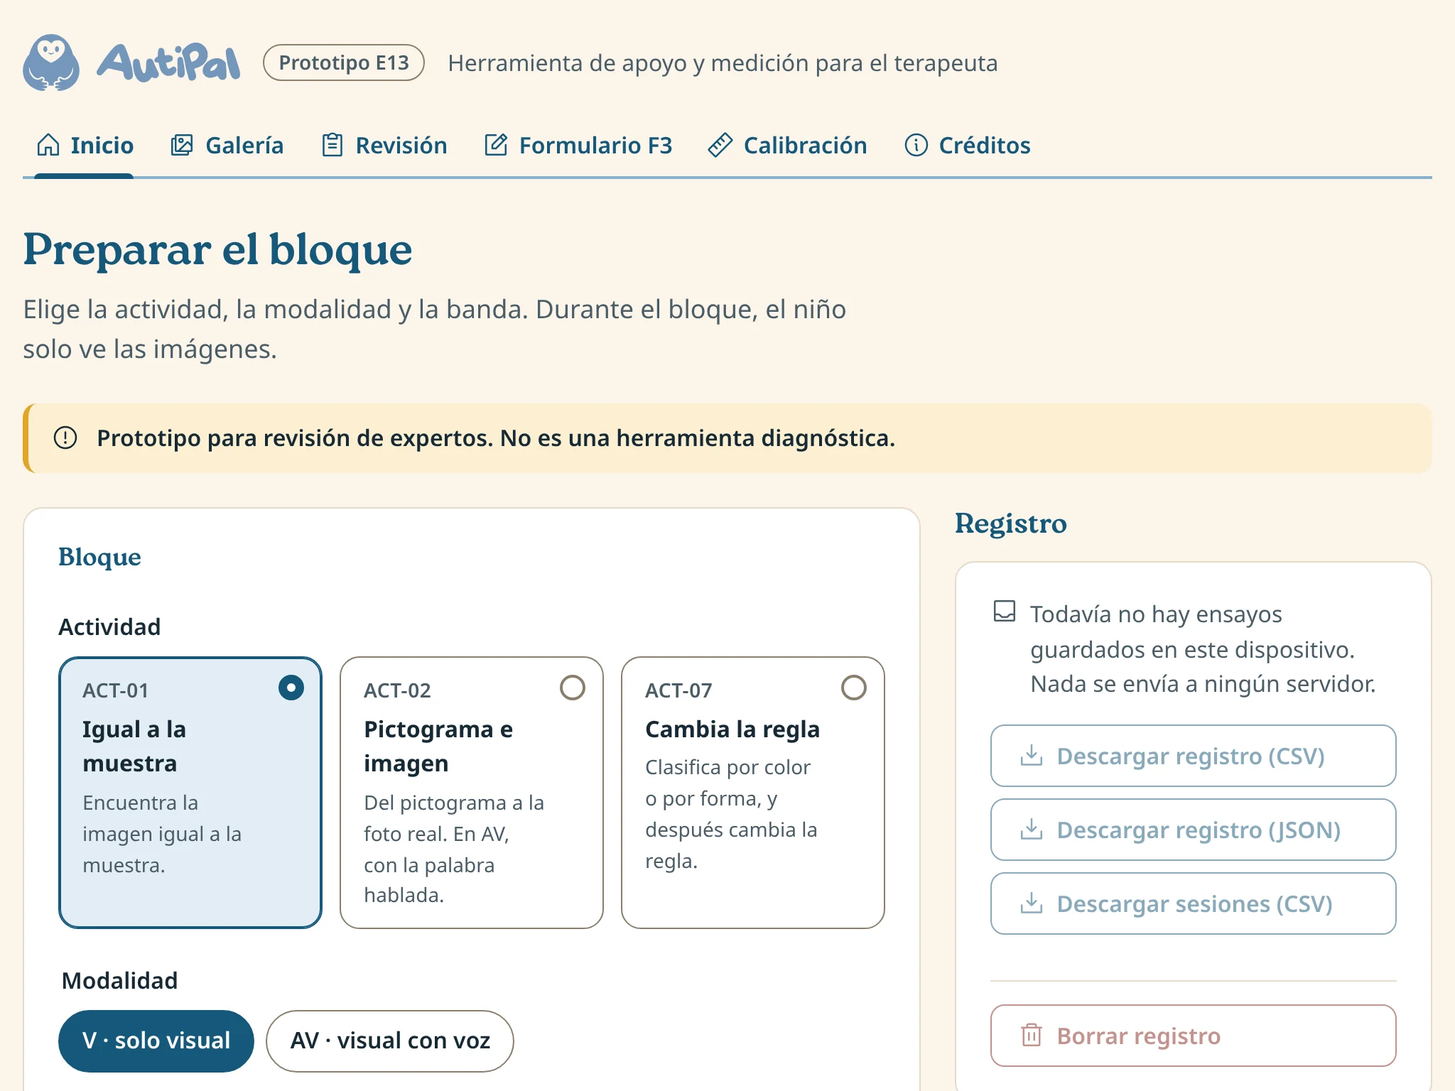
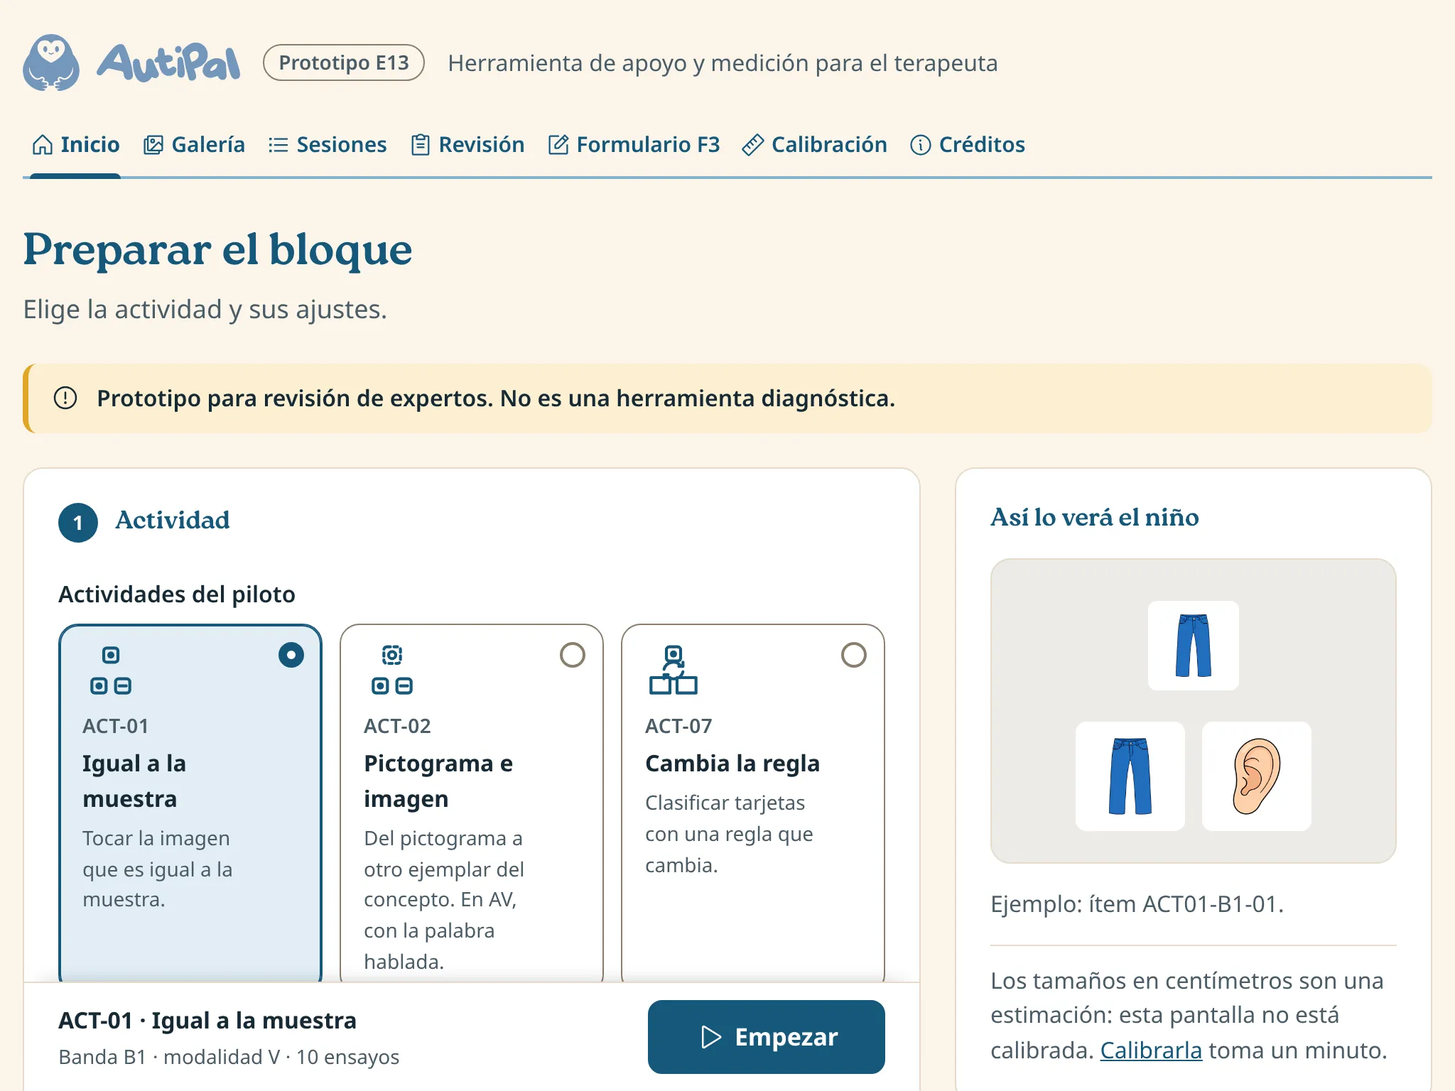
Actualiza la página de producto con las actividades en preparación
- Sección nueva «En preparación»: las seis actividades de uso posterior
  que ya tienen prototipo, cada una con su captura, y la pausa guiada.
  Dice que solo se abren en modo experto y que no se usan con niños
  hasta después del piloto y de su propia validez de contenido.
- Capturas nuevas del inicio (claro y oscuro), la galería, la pausa, el
  resumen y la calibración, con la interfaz de hoy. La del registro se
  reemplaza por la de la página Sesiones.
- Tres tarjetas más en «Tú llevas la sesión»: vista previa, sesión por
  sesión y aviso de tamaño.
- El número de pruebas ya no se escribe a mano: 151 en test/.
- Cada captura tiene su fila en licencias.csv; la de «Clasifica por
  categoría» lleva la licencia de ARASAAC por sus pictogramas.
- Pruebas nuevas (novedades.test.js): las actividades, los totales del
  Catálogo y el número de pruebas que dice la página salen de los datos
  del repositorio.

Claude-Session: https://claude.ai/code/session_01YFZtU3qLhKNTPGUUqX3szs

diff --git a/pagina-producto/index.html b/pagina-producto/index.html
@@ -123,13 +123,13 @@
               <div class="diapositiva diapositiva--azul" aria-roledescription="diapositiva" aria-label="3 de 5">
                 <p class="diapositiva__texto"><strong>Tres actividades, una ficha cada una.</strong> Igual a la muestra, Pictograma e imagen y Cambia la regla, con su objetivo y sus tiempos por escrito.</p>
                 <div class="diapositiva__medio">
-                  <div class="tableta"><img src="../assets/pagina-producto/inicio-claro.webp" alt="Pantalla Preparar el bloque, con las tres actividades en tarjetas y la modalidad." width="2048" height="1536" loading="lazy" /></div>
+                  <div class="tableta"><img src="../assets/pagina-producto/inicio-claro.webp" alt="Pantalla Preparar el bloque: las tres actividades del piloto en tarjetas, a un lado un ejemplo de lo que verá el niño y, abajo, el botón Empezar." width="2048" height="1536" loading="lazy" /></div>
                 </div>
               </div>
               <div class="diapositiva diapositiva--noche noche" aria-roledescription="diapositiva" aria-label="4 de 5">
-                <p class="diapositiva__texto"><strong>Un registro que sale listo.</strong> Al terminar, descargas cada ensayo en CSV o JSON. Nada se envía a ningún servidor.</p>
+                <p class="diapositiva__texto"><strong>Un registro que sale listo.</strong> Al terminar, descargas cada ensayo en CSV o JSON, completo o sesión por sesión. Nada se envía a ningún servidor.</p>
                 <div class="diapositiva__medio">
-                  <div class="tableta"><img src="../assets/pagina-producto/inicio-registro.webp" alt="Pantalla de inicio con el registro: seis ensayos guardados en este dispositivo, nada se envía a ningún servidor, y los botones de descarga." width="2048" height="1536" loading="lazy" /></div>
+                  <div class="tableta"><img src="../assets/pagina-producto/sesiones.webp" alt="Página Sesiones: una sesión con el resumen de su bloque y, a un lado, el registro con seis ensayos guardados en este dispositivo y los botones de descarga." width="2048" height="1536" loading="lazy" /></div>
                 </div>
               </div>
               <div class="diapositiva" aria-roledescription="diapositiva" aria-label="5 de 5">
@@ -408,6 +408,21 @@
               <h3>Calibración.</h3>
               <p>Una regla de 5 cm para que las opciones midan lo mismo en cualquier tableta.</p>
             </div>
+            <div class="tarjeta">
+              <span class="icono icono--chico" aria-hidden="true"><svg viewBox="0 0 24 24" class="trazo"><path d="M2.5 12s3.5-6.5 9.5-6.5 9.5 6.5 9.5 6.5-3.5 6.5-9.5 6.5S2.5 12 2.5 12z" /><circle cx="12" cy="12" r="2.8" /></svg></span>
+              <h3>Vista previa.</h3>
+              <p>Antes de empezar ves, en chico, un ítem de la banda que elegiste, tal como lo verá el niño.</p>
+            </div>
+            <div class="tarjeta">
+              <span class="icono icono--chico" aria-hidden="true"><svg viewBox="0 0 24 24" class="trazo"><rect x="3.5" y="5" width="17" height="14" rx="2" /><path d="M8 3.5v3M16 3.5v3M3.5 10h17" /></svg></span>
+              <h3>Sesión por sesión.</h3>
+              <p>Cada sesión queda en su tarjeta, con el resumen de sus bloques, sus pausas y su propia descarga.</p>
+            </div>
+            <div class="tarjeta">
+              <span class="icono icono--chico" aria-hidden="true"><svg viewBox="0 0 24 24" class="trazo"><rect x="3" y="5" width="18" height="14" rx="2" /><path d="M12 9v4M12 15.8v.2" /></svg></span>
+              <h3>Aviso de tamaño.</h3>
+              <p>Si las opciones no caben en la pantalla a 2 cm, AutiPal lo dice antes de empezar.</p>
+            </div>
           </div>
         </div>
       </section>
@@ -422,8 +437,8 @@
           <div class="recorrido" data-recorrido>
             <ol class="recorrido__pasos">
               <li class="paso">
-                <div class="paso__texto"><div><p class="paso__numero">Paso 1 de 7</p><h3>Preparas el bloque</h3></div><p>Eliges la actividad, la modalidad, la banda y el número de ensayos.</p></div>
-                <div class="tableta"><img src="../assets/pagina-producto/inicio-claro.webp" alt="Pantalla Preparar el bloque, con las tres actividades en tarjetas." width="2048" height="1536" loading="lazy" /></div>
+                <div class="paso__texto"><div><p class="paso__numero">Paso 1 de 7</p><h3>Preparas el bloque</h3></div><p>Eliges la actividad, la modalidad, la banda y el número de ensayos, y ves un ejemplo de lo que verá el niño.</p></div>
+                <div class="tableta"><img src="../assets/pagina-producto/inicio-claro.webp" alt="Pantalla Preparar el bloque, con las tres actividades del piloto en tarjetas y la vista previa a un lado." width="2048" height="1536" loading="lazy" /></div>
               </li>
               <li class="paso">
                 <div class="paso__texto"><div><p class="paso__numero">Paso 2 de 7</p><h3>El niño hace la tarea</h3></div><p>Una tarjeta arriba y las opciones abajo, sobre un fondo liso.</p></div>
@@ -435,7 +450,7 @@
               </li>
               <li class="paso">
                 <div class="paso__texto"><div><p class="paso__numero">Paso 4 de 7</p><h3>Si hace falta, pausas</h3></div><p>Dos toques en la esquina. El ensayo en curso queda como interrumpido.</p></div>
-                <div class="tableta"><img src="../assets/pagina-producto/pausa.webp" alt="Pantalla Sesión en pausa, con el volumen, el motivo y una nota." width="2048" height="1536" loading="lazy" /></div>
+                <div class="tableta"><img src="../assets/pagina-producto/pausa.webp" alt="Pantalla Sesión en pausa, con el volumen, el motivo, una nota y el acceso a la pausa guiada." width="2048" height="1536" loading="lazy" /></div>
               </li>
               <li class="paso">
                 <div class="paso__texto"><div><p class="paso__numero">Paso 5 de 7</p><h3>La misma pantalla de fin</h3></div><p>Igual para todos, sin importar cuántos aciertos hubo.</p></div>
@@ -446,8 +461,8 @@
                 <div class="tableta"><img src="../assets/pagina-producto/resumen.webp" alt="Resumen del bloque con aciertos, respuestas y la mediana del tiempo de respuesta." width="2048" height="1536" loading="lazy" /></div>
               </li>
               <li class="paso">
-                <div class="paso__texto"><div><p class="paso__numero">Paso 7 de 7</p><h3>Descargas el registro</h3></div><p>En CSV o JSON. Nada se envía a ningún servidor.</p></div>
-                <div class="tableta"><img src="../assets/pagina-producto/inicio-registro.webp" alt="Registro con seis ensayos guardados y los botones de descarga." width="2048" height="1536" loading="lazy" /></div>
+                <div class="paso__texto"><div><p class="paso__numero">Paso 7 de 7</p><h3>Descargas el registro</h3></div><p>En CSV o JSON, completo o sesión por sesión. Nada se envía a ningún servidor.</p></div>
+                <div class="tableta"><img src="../assets/pagina-producto/sesiones.webp" alt="Página Sesiones con la sesión guardada, el resumen de su bloque y los botones de descarga." width="2048" height="1536" loading="lazy" /></div>
               </li>
             </ol>
             <div class="controles recorrido__controles" hidden>
@@ -546,7 +561,7 @@
           <div class="centrado aparece">
             <p class="antetitulo">Motor de medición</p>
             <h2 id="titulo-motor" class="titulo">El motor. El que lleva la cuenta.</h2>
-            <p class="intro">Las tres actividades usan la misma máquina de estados. La actividad solo decide cómo se ve; el motor mide y registra.</p>
+            <p class="intro">Todas las actividades usan la misma máquina de estados. La actividad solo decide cómo se ve; el motor mide y registra.</p>
           </div>
           <ol class="flujo aparece" aria-label="Estados de un ensayo">
             <li><span class="flujo__estado"><strong>Intervalo</strong><span>1 s</span></span></li>
@@ -568,9 +583,9 @@
               <p>Marca las respuestas anticipatorias, de menos de 150 ms, los toques fuera, la pérdida de foco y los cuadros perdidos, y avisa si la pantalla baja de 50 Hz. Todo se resume en un peso de calidad.</p>
             </div>
             <div>
-              <p class="cifra cifra--clara">94</p>
+              <p class="cifra cifra--clara" data-pruebas>151</p>
               <h3>Probado en cada cambio.</h3>
-              <p>94 pruebas automáticas cuidan el reloj, el registro y las actividades, y una revisión automática comprueba 34 de 34 puntos de las fichas.</p>
+              <p><span data-pruebas>151</span> pruebas automáticas cuidan el reloj, el registro y las actividades, y una revisión automática comprueba 34 de 34 puntos de las fichas del piloto.</p>
             </div>
           </div>
         </div>
@@ -660,6 +675,63 @@
               <p>Investigación, modelos y validación: cada cifra con su incertidumbre, cada adaptación con límites y cada decisión en manos del profesional.</p>
             </div>
           </div>
+        </div>
+      </section>
+
+      <section id="en-preparacion" class="seccion seccion--merino preparacion" aria-labelledby="titulo-en-preparacion">
+        <div class="contenedor">
+          <div class="aparece">
+            <p class="antetitulo">En preparación</p>
+            <h2 id="titulo-en-preparacion" class="titulo titulo--angosto">Seis actividades más. Por ahora, solo para revisar.</h2>
+            <p class="intro">El Catálogo de actividades de Neuro-BlueMinds tiene <span data-catalogo="total">17</span>. Además de las tres del piloto, seis ya tienen prototipo sobre el mismo motor. Se abren solo en modo experto: no se usan con niños hasta después del piloto y de su propia validez de contenido.<sup>10</sup></p>
+          </div>
+          <ul class="rejilla bloque aparece" style="--min: 300px">
+            <li class="tarjeta tarjeta--captura">
+              <p><span class="insignia">Uso posterior · <span data-posterior="ACT-03">ACT-03</span></span></p>
+              <h3 data-nombre="ACT-03">Palabra escrita e imagen</h3>
+              <p>Lee una palabra, o una frase de dos, y toca su dibujo.</p>
+              <div class="tableta"><img src="../assets/pagina-producto/act-03.webp" alt="Pantalla del niño: la palabra «cuchara» escrita arriba y cuatro dibujos abajo: una cuchara, un vaso, un teléfono y unas llaves." width="2048" height="1536" loading="lazy" /></div>
+            </li>
+            <li class="tarjeta tarjeta--captura">
+              <p><span class="insignia">Uso posterior · <span data-posterior="ACT-06">ACT-06</span></span></p>
+              <h3 data-nombre="ACT-06">Clasifica por categoría</h3>
+              <p>Pone cada dibujo en la caja de su categoría. Las cajas no cambian de lugar.</p>
+              <div class="tableta"><img src="../assets/pagina-producto/act-06.webp" alt="Pantalla del niño: una galleta arriba y tres cajas abajo, cada una con dos pictogramas: animales, alimentos y ropa." width="2048" height="1536" loading="lazy" /></div>
+            </li>
+            <li class="tarjeta tarjeta--captura">
+              <p><span class="insignia">Uso posterior · <span data-posterior="ACT-08">ACT-08</span></span></p>
+              <h3 data-nombre="ACT-08">Busca el objetivo</h3>
+              <p>Encuentra un dibujo entre 4, 8, 12 o 16.</p>
+              <div class="tableta"><img src="../assets/pagina-producto/act-08.webp" alt="Pantalla del niño: un pan arriba, como objetivo, y doce dibujos abajo, en tres filas de cuatro; uno de ellos es el pan." width="2048" height="1536" loading="lazy" /></div>
+            </li>
+            <li class="tarjeta tarjeta--captura">
+              <p><span class="insignia">Uso posterior · <span data-posterior="ACT-09">ACT-09</span></span></p>
+              <h3 data-nombre="ACT-09">Recuerda y encuentra</h3>
+              <p>Ve un dibujo dos segundos. Después de una pausa de hasta 10 s, lo busca entre las opciones.</p>
+              <div class="tableta"><img src="../assets/pagina-producto/act-09.webp" alt="Pantalla del niño después de la pausa: tres dibujos, un pastel, una cabellera y un jabón; la muestra ya no está." width="2048" height="1536" loading="lazy" /></div>
+            </li>
+            <li class="tarjeta tarjeta--captura">
+              <p><span class="insignia">Uso posterior · <span data-posterior="ACT-11">ACT-11</span></span></p>
+              <h3 data-nombre="ACT-11">Completa el patrón</h3>
+              <p>Elige la figura que sigue en una serie: AB, AAB, ABC o dos reglas a la vez.</p>
+              <div class="tableta"><img src="../assets/pagina-producto/act-11.webp" alt="Pantalla del niño: una serie de cuadrados, círculos y estrellas amarillos con el último lugar vacío, y tres figuras para elegir." width="2048" height="1536" loading="lazy" /></div>
+            </li>
+            <li class="tarjeta tarjeta--captura">
+              <p><span class="insignia">Uso posterior · <span data-posterior="ACT-14">ACT-14</span></span></p>
+              <h3 data-nombre="ACT-14">Reconoce la emoción</h3>
+              <p>Elige el pictograma de la emoción de un rostro dibujado: alegría, tristeza, enojo o miedo.</p>
+              <div class="tableta"><img src="../assets/pagina-producto/act-14.webp" alt="Pantalla del niño: el rostro dibujado de una niña que ríe y, abajo, cuatro pictogramas de emoción." width="2048" height="1536" loading="lazy" /></div>
+            </li>
+          </ul>
+          <div class="tarjeta preparacion__pausa aparece">
+            <div>
+              <p><span class="insignia">Uso posterior · <span data-posterior="ACT-17">ACT-17</span></span></p>
+              <h3 data-nombre="ACT-17">Pausa guiada</h3>
+              <p>Un globo se infla y se desinfla despacio mientras el terapeuta acompaña. Dura de 1 a 2 minutos, la inicia solo el terapeuta y no mide nada: en la sesión queda que ocurrió y cuánto duró.</p>
+            </div>
+            <div class="tableta"><img src="../assets/pagina-producto/pausa-guiada.webp" alt="Pantalla de la pausa guiada: un globo sobre un fondo liso." width="2048" height="1536" loading="lazy" /></div>
+          </div>
+          <p class="preparacion__nota aparece">Las otras <span data-catalogo="sin-prototipo">7</span> esperan: cinco necesitan dibujos de escenas, grabaciones o un tipo de respuesta nuevo, y dos siguen en investigación.</p>
         </div>
       </section>
 
@@ -957,7 +1029,7 @@
       <div class="contenedor">
         <ol class="pie__notas">
           <li>AutiPal es un prototipo en fase de pruebas (encargo E13, versión 0.1.0). No es un dispositivo médico: no diagnostica, no fija objetivos por sí mismo y no sustituye la valoración ni la terapia. Las decisiones son del profesional.</li>
-          <li>Las capturas son del prototipo real, con datos de demostración, tomadas el 6 de noviembre de 2026; la de la galería, el 9 de noviembre. Los 180 dibujos del banco se hicieron para este prototipo en el estilo de los dibujos de las libretas de estímulos: 134 con inteligencia artificial en Canva, 44 como variantes sin IA de esos dibujos y 2 con código. Todos son originales, no copian láminas de ninguna prueba ni muestran a personas reales, y esperan revisión clínica. Son dibujos, no fotografías, porque así son los estímulos de las libretas: un solo objeto, claro y sin detalles que distraigan.</li>
+          <li>Las capturas son del prototipo real, con datos de demostración: las de la pantalla del niño en Cambia la regla, del 6 de noviembre de 2026; las del terapeuta y las de las actividades en preparación, del 11 de noviembre. Los 180 dibujos del banco se hicieron para este prototipo en el estilo de los dibujos de las libretas de estímulos: 134 con inteligencia artificial en Canva, 44 como variantes sin IA de esos dibujos y 2 con código. Todos son originales, no copian láminas de ninguna prueba ni muestran a personas reales, y esperan revisión clínica. Son dibujos, no fotografías, porque así son los estímulos de las libretas: un solo objeto, claro y sin detalles que distraigan.</li>
           <li>El registro guarda los tiempos con resolución de 0.1 ms. La exactitud de cada medida depende de la pantalla, del navegador y del dispositivo; por eso la latencia del dispositivo tiene su propia columna, que se llena cuando se mide.</li>
           <li>Las funciones marcadas «En diseño» son parte del diseño documentado de Neuro-BlueMinds y aún no están en el prototipo. Todavía no hay datos de participantes: la fiabilidad y la validez se medirán con 24 niños en 2027, bajo el marco V3.</li>
           <li>C&amp;W está en desarrollo y todavía no mide. El costo es la suma aproximada de sus cuatro componentes principales, sin batería, carcasa ni motor.</li>
@@ -965,6 +1037,7 @@
           <li>Contraste medido el 5 de noviembre de 2026 en las pantallas de la aplicación, en tema claro y oscuro.</li>
           <li>Pictogramas: autor Sergio Palao. Origen: ARASAAC (http://www.arasaac.org). Licencia: CC (BY-NC-SA). Propiedad: Gobierno de Aragón (España).</li>
           <li>Íconos de la aplicación: Phosphor Icons (MIT). Tipografías: Roca Two y More Sugar, del manual de marca, se usan si están instaladas; Noto Sans y Noto Serif, con licencia SIL OFL 1.1.</li>
+          <li>Las actividades «En preparación» son prototipos de las actividades de uso posterior del Catálogo de actividades. Sus fichas y sus ítems son una propuesta y esperan revisión clínica; todavía no se usan con niños ni forman parte de la validación con expertos. Sus capturas están en modo experto: por eso muestran el código del ítem y el botón Siguiente.</li>
         </ol>
         <nav class="pie__columnas" aria-label="Pie de página">
           <div>
@@ -972,6 +1045,7 @@
             <ul>
               <li><a href="#resumen">Resumen</a></li>
               <li><a href="#actividades">Actividades</a></li>
+              <li><a href="#en-preparacion">En preparación</a></li>
               <li><a href="#diseno">Diseño</a></li>
               <li><a href="#especificaciones">Especificaciones</a></li>
               <li><a href="../">Probar el prototipo</a></li>

diff --git a/pagina-producto/novedades.test.js b/pagina-producto/novedades.test.js
@@ -1,0 +1,57 @@
+// Pruebas de lo que la página de producto dice sobre las actividades en preparación y sobre
+// el propio prototipo: los números salen del Catálogo y de las pruebas, no se escriben a mano.
+import { test } from 'node:test';
+import assert from 'node:assert/strict';
+import { readFileSync, readdirSync, existsSync } from 'node:fs';
+
+const leer = (ruta) => readFileSync(new URL(ruta, import.meta.url), 'utf8');
+const html = leer('./index.html');
+const { actividades } = JSON.parse(leer('../fichas/catalogo.json'));
+const textoDe = (atributo, valor) => [...html.matchAll(new RegExp(`<([a-z0-9]+)\\b[^>]*\\b${atributo}="${valor}"[^>]*>([^<]*)</\\1>`, 'g'))].map((m) => m[2].trim());
+
+test('la sección «En preparación» lista las actividades de uso posterior que tienen prototipo, con su nombre', () => {
+  const conPrototipo = actividades.filter((a) => a.estado === 'Uso posterior' && a.prototipo);
+  const enPagina = [...html.matchAll(/data-posterior="(ACT-\d{2})"/g)].map((m) => m[1]);
+  assert.deepEqual(enPagina, conPrototipo.map((a) => a.id));
+  for (const a of conPrototipo) {
+    assert.deepEqual(textoDe('data-posterior', a.id), [a.id]);
+    assert.deepEqual(textoDe('data-nombre', a.id), [a.nombre], a.id);
+    // Cada una lleva su captura, salvo que se llame distinto (la pausa guiada).
+    const captura = a.id === 'ACT-17' ? 'pausa-guiada' : a.id.toLowerCase();
+    assert.ok(html.includes(`../assets/pagina-producto/${captura}.webp`), `${a.id}: captura`);
+    assert.ok(existsSync(new URL(`../assets/pagina-producto/${captura}.webp`, import.meta.url)), `${a.id}: archivo`);
+  }
+});
+
+test('los totales del Catálogo que dice la página son los de fichas/catalogo.json', () => {
+  assert.deepEqual(textoDe('data-catalogo', 'total'), [String(actividades.length)]);
+  assert.deepEqual(textoDe('data-catalogo', 'sin-prototipo'), [String(actividades.filter((a) => !a.prototipo).length)]);
+  // «cinco necesitan… y dos siguen en investigación».
+  assert.equal(actividades.filter((a) => !a.prototipo && a.estado === 'Uso posterior').length, 5);
+  assert.equal(actividades.filter((a) => a.estado === 'Investigación').length, 2);
+  assert.match(html, /cinco necesitan dibujos de escenas, grabaciones o un tipo de respuesta nuevo, y dos siguen en investigación/);
+});
+
+test('la página dice que las actividades en preparación solo se abren en modo experto', () => {
+  const seccion = html.match(/<section id="en-preparacion"[\s\S]*?<\/section>/)[0];
+  assert.match(seccion, /Se abren solo en modo experto/);
+  assert.match(seccion, /no se usan con niños/);
+  // Y nunca las presenta como parte del piloto.
+  assert.doesNotMatch(seccion, /piloto<\/span>|Piloto ·/);
+});
+
+test('el número de pruebas automáticas que dice la página es el de la carpeta test/', () => {
+  const carpeta = new URL('../test/', import.meta.url);
+  const total = readdirSync(carpeta)
+    .filter((f) => f.endsWith('.test.js'))
+    .reduce((n, f) => n + (readFileSync(new URL(f, carpeta), 'utf8').match(/^test\(/gm) ?? []).length, 0);
+  const enPagina = [...html.matchAll(/<[a-z]+\b[^>]*\bdata-pruebas[^>]*>(\d+)</g)].map((m) => Number(m[1]));
+  assert.ok(enPagina.length >= 2, 'la cifra grande y la frase');
+  for (const n of enPagina) assert.equal(n, total);
+});
+
+test('ninguna página nombra la captura que se reemplazó', () => {
+  for (const ruta of ['./index.html', './pagina.css', './pagina.js', '../README.md', '../items/licencias.csv']) {
+    assert.doesNotMatch(leer(ruta), /inicio-registro\.webp/, ruta);
+  }
+});

diff --git a/pagina-producto/pagina.css b/pagina-producto/pagina.css
@@ -1670,6 +1670,53 @@ details[open] > summary .mas svg {
   border-radius: clamp(11px, 1.4vw, 16px);
 }
 
+/* ---------- En preparación ---------- */
+
+.preparacion .tarjeta--captura h3,
+.preparacion__pausa h3 {
+  margin-top: 14px;
+  font-size: clamp(22px, 1.9vw, 26px);
+}
+
+/* Las tabletas de una misma fila quedan a la misma altura, aunque el texto ocupe menos renglones. */
+.preparacion .tarjeta--captura > p:last-of-type {
+  margin-bottom: 28px;
+}
+
+.preparacion .tarjeta--captura .tableta {
+  margin-top: auto;
+}
+
+/* La pausa guiada va aparte: no es una actividad con ensayos. */
+.preparacion__pausa {
+  display: grid;
+  grid-template-columns: repeat(auto-fit, minmax(min(100%, 320px), 1fr));
+  gap: clamp(24px, 4vw, 56px);
+  align-items: center;
+  margin-top: 20px;
+}
+
+.preparacion__pausa p {
+  max-width: 32em;
+}
+
+.preparacion__pausa .tableta {
+  padding: clamp(7px, 0.9vw, 10px);
+  border-radius: clamp(18px, 2.2vw, 26px);
+  box-shadow: none;
+}
+
+.preparacion__pausa .tableta img {
+  border-radius: clamp(11px, 1.4vw, 16px);
+}
+
+.preparacion__nota {
+  max-width: 46em;
+  margin-top: 28px;
+  color: var(--suave);
+  font-size: clamp(17px, 1.4vw, 19px);
+}
+
 /* ---------- Recorrido ---------- */
 
 .recorrido {
